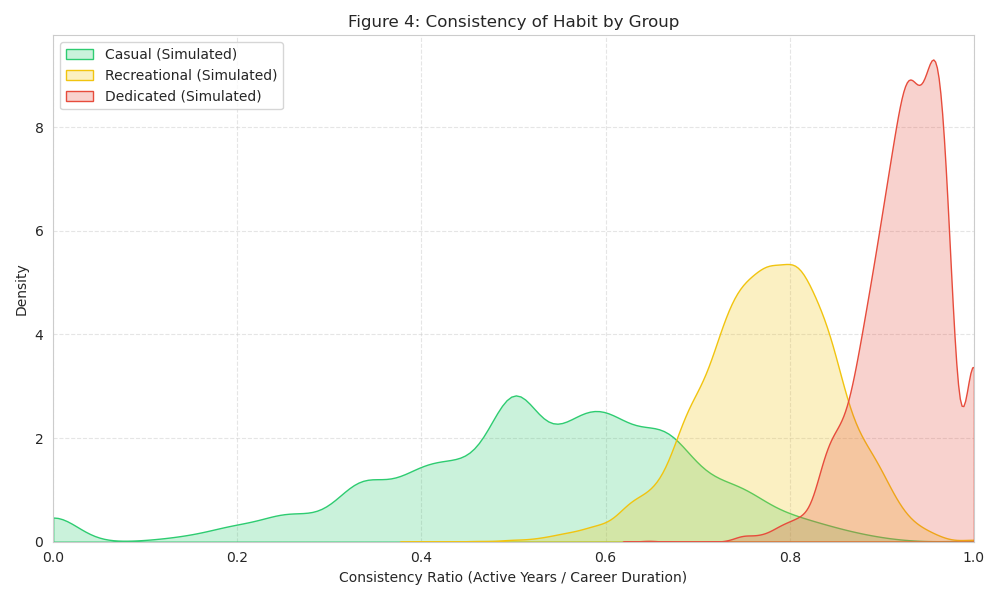
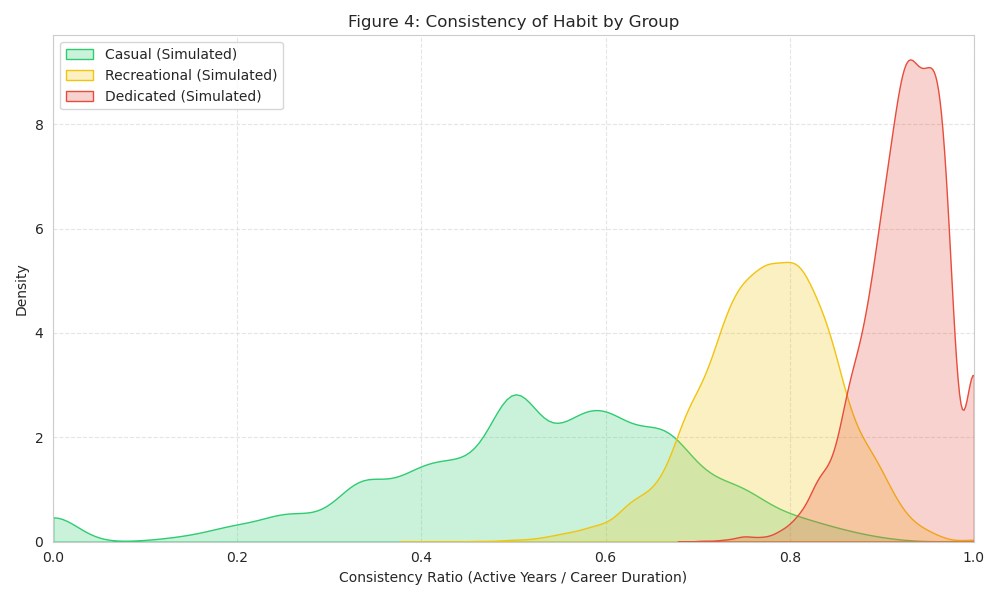
Synchronize model params, update docs, and add mechanic plots

diff --git a/index.html b/index.html
@@ -356,7 +356,7 @@
                         </ul>
                     </li>
                     <li><strong>Duration ($\Delta_{active}$):</strong> Modeled as a Gamma Distribution. Dedicated
-                        runners have a mean duration of ~30 years, while Casual runners average ~5 years.</li>
+                        runners have a mean duration of ~30 years, while Casual runners average ~10 years.</li>
                     <li><strong>Intermittency ($p_{active}$):</strong> A Bernoulli coin flip each year to determine if
                         the runner was active that specific year (ranging from 60% consistency for Casual to 95% for
                         Dedicated).</li>
@@ -415,12 +415,39 @@
 
                 <p><strong>Key Insight:</strong> The difference between limits is not pace, but persistence. A Dedicated
                     runner
-                    runner
                     averaging 10-minute miles will eventually build a statistical tower of volume that dwarfs a faster
                     runner
                     who quits after five years.</p>
 
-                <h2>5. Interactive Calculators</h2>
+                <h2>5. Inside the Black Box: Model Mechanics</h2>
+                <p>To demystify how the model builds these projections, we can peek under the hood at the three internal
+                    drivers:</p>
+
+                <h3>1. The "Base Engine": Annual Inputs</h3>
+                <figure>
+                    <img src="output_file_annual_dist.png" alt="Annual Volume Distributions">
+                    <figcaption>Figure 5: The Annual "Brick" distribution. Before accumulation, these are the
+                        probabilities of annual volume. Casual runners Center at ~450 miles/year, while Dedicated
+                        runners are an order of magnitude higher at ~2,200 miles/year.</figcaption>
+                </figure>
+
+                <h3>2. The "Career Arc": Lifecycles</h3>
+                <figure>
+                    <img src="output_file_gantt.png" alt="Career Gantt Chart of 50 Sample Runners">
+                    <figcaption>Figure 6: Lifecycle Gantt Chart (Sample of 50 Active Runners). The horizontal bars
+                        represent the active career of a runner. Notice the "Casual" (Green) runners often have short,
+                        5-10 year careers, while "Dedicated" (Red) runners maintain the habit for decades.</figcaption>
+                </figure>
+
+                <h3>3. The "Persistence Multiplier"</h3>
+                <figure>
+                    <img src="output_file_scatter.png" alt="Scatter Plot of Active Years vs Total Miles">
+                    <figcaption>Figure 7: Persistence vs Volume. Each dot is a simulated life. The relationship is
+                        remarkably linear. The "Dedicated" cluster (Red) isn't just higher because they run more per
+                        day, but because they run for more <em>years</em>.</figcaption>
+                </figure>
+
+                <h2>6. Interactive Calculators</h2>
 
                 <p>Based on the fitted parameters from the simulation (Casual $\approx$ 450 miles/yr, Dedicated
                     $\approx$ 2,200
@@ -491,7 +518,7 @@
                     <p id="percContext" style="text-align:center; font-size:1rem; color:#6b7280; margin-top:1rem;"></p>
                 </div>
 
-                <h2>6. Conclusion</h2>
+                <h2>7. Conclusion</h2>
 
                 <p>The difference between the Casual and Dedicated outcomes is driven less by pace than by persistence.
                     A
@@ -521,21 +548,21 @@
         // Cumulative Mileage Stats (Mean, StdDev) for Active Members of each group at various ages
         // Derived from PyMC/GMM Simulation
         const modelData = {
-            16: { c: [439, 182], r: [1178, 523], d: [1737, 335] },
-            20: { c: [794, 486], r: [2890, 1718], d: [6622, 2182] },
-            30: { c: [1293, 912], r: [6944, 3956], d: [19122, 7399] },
-            40: { c: [1977, 1260], r: [14835, 4891], d: [29283, 11429] },
-            50: { c: [2434, 1611], r: [22093, 5697], d: [39649, 11698] },
-            60: { c: [2558, 1811], r: [26499, 7678], d: [45474, 12889] },
-            70: { c: [2583, 1878], r: [28441, 9483], d: [47704, 14474] },
-            80: { c: [2586, 1893], r: [29055, 10404], d: [48351, 15438] },
+            16: { c: [442, 187], r: [1187, 532], d: [1736, 339] },
+            20: { c: [798, 492], r: [2911, 1734], d: [6618, 2183] },
+            30: { c: [1300, 919], r: [6994, 3988], d: [19046, 7493] },
+            40: { c: [1986, 1269], r: [14942, 4931], d: [29273, 11484] },
+            50: { c: [2445, 1620], r: [22252, 5745], d: [39704, 11718] },
+            60: { c: [2570, 1821], r: [26690, 7739], d: [45659, 12967] },
+            70: { c: [2595, 1890], r: [28647, 9557], d: [47950, 14588] },
+            80: { c: [2598, 1904], r: [29265, 10484], d: [48621, 15585] },
         };
         const WEIGHTS = { non: 0.6, casual: 0.25, rec: 0.1, ded: 0.05 };
         const BETA_GENDER = 0.41; // Log-scale shift derived from PyMC model
 
         // Generated from Python Script
         const FIG_STATS = {
-            age60: { casualMode: 1321, recMode: 27747, dedMode: 45165 }
+            age60: { casualMode: 1321, recMode: 27867, dedMode: 43483 }
         };
 
         function onPageLoad() {

diff --git a/lifetime_model.py b/lifetime_model.py
@@ -450,3 +450,160 @@ plt.grid(True, linestyle='--', alpha=0.5)
 plt.tight_layout()
 plt.savefig('output_file_consistency.png')
 print("Saved output_file_consistency.png")
+
+# --- Plot 5: Annual Volume Distributions (The Inputs) ---
+print("Generating Annual Distribution Plot...")
+plt.figure(figsize=(10, 6))
+
+x = np.linspace(0, 5000, 1000)
+
+# Casual (Mixed)
+dist_c = (np.exp(-(np.log(x) - MU_C_MIXED)**2 / (2 * SIG_C**2)) / (x * SIG_C * np.sqrt(2 * np.pi)))
+# Rec (Mixed)
+dist_r = (np.exp(-(np.log(x) - MU_R_MIXED)**2 / (2 * SIG_R**2)) / (x * SIG_R * np.sqrt(2 * np.pi)))
+# Ded (Mixed)
+dist_d = (np.exp(-(np.log(x) - MU_D_MIXED)**2 / (2 * SIG_D**2)) / (x * SIG_D * np.sqrt(2 * np.pi)))
+
+# Normalize peak for visualization comparison (or just show density)
+plt.plot(x, dist_c, color='#2ecc71', label='Casual Annual', linewidth=2)
+plt.fill_between(x, dist_c, alpha=0.3, color='#2ecc71')
+
+plt.plot(x, dist_r, color='#f1c40f', label='Rec Annual', linewidth=2)
+plt.fill_between(x, dist_r, alpha=0.3, color='#f1c40f')
+
+plt.plot(x, dist_d, color='#e74c3c', label='Dedicated Annual', linewidth=2)
+plt.fill_between(x, dist_d, alpha=0.3, color='#e74c3c')
+
+plt.xlim(0, 4000)
+plt.xlabel("Annual Mileage")
+plt.ylabel("Probability Density")
+plt.title("Figure 5: The inputs - Annual Volume Distributions")
+plt.legend()
+plt.tight_layout()
+plt.savefig('output_file_annual_dist.png')
+
+
+# --- Plot 6: Career Gantt Chart ---
+print("Generating Gantt Chart...")
+plt.figure(figsize=(12, 8))
+
+# Sample 50 ACTIVE runners (ignoring non-runners for the visualization)
+n_sample = 50
+active_indices = np.where(groups > 0)[0]
+if len(active_indices) > n_sample:
+    sample_indices = np.random.choice(active_indices, n_sample, replace=False)
+else:
+    sample_indices = active_indices
+
+# Sort by group then by start age
+# We want to group colors together
+sorted_sample = []
+for g in [1, 2, 3]: # Casual, Rec, Ded
+    g_idx = sample_indices[groups[sample_indices] == g]
+    # sub sort by duration
+    durs = stops_d[np.searchsorted(idx_d, g_idx)] if g == 3 else (stops_r[np.searchsorted(idx_r, g_idx)] if g == 2 else stops_c[np.searchsorted(idx_c, g_idx)])
+    # Actually simpler: just get their data from arrays if we mapped them.
+    # But simulation arrays are separate.
+    # Let's just iterate and build a list
+    pass
+
+# Re-build simple list for plotting
+plot_data = []
+for i in sample_indices:
+    g = groups[i]
+    if g == 0: continue # Skip non-runners
+    
+    # Find parameters
+    if g == 1:
+        color = '#2ecc71'
+        label = 'Casual'
+        # find in idx_c
+        pos = np.where(idx_c == i)[0][0]
+        start = starts_c[pos]
+        stop = stops_c[pos]
+    elif g == 2:
+        color = '#f1c40f'
+        label = 'Recreational'
+        pos = np.where(idx_r == i)[0][0]
+        start = starts_r[pos]
+        stop = stops_r[pos]
+    elif g == 3:
+        color = '#e74c3c'
+        label = 'Dedicated'
+        pos = np.where(idx_d == i)[0][0]
+        start = starts_d[pos]
+        stop = stops_d[pos]
+        
+    plot_data.append({
+        'id': i, 'group': g, 'color': color, 'start': start, 'stop': stop, 'duration': stop-start
+    })
+
+# Sort by group, then duration
+plot_data.sort(key=lambda x: (x['group'], x['duration']))
+
+y_pos = 0
+for p in plot_data:
+    plt.hlines(y=y_pos, xmin=p['start'], xmax=p['stop'], color=p['color'], linewidth=3)
+    # Optional: Dots for active years? 
+    # Too granular for 50 lines. Just the bars is good.
+    y_pos += 1
+
+plt.xlabel("Age")
+plt.yticks([])
+plt.ylabel("Individual Runners (Sample)")
+plt.title("Figure 6: Career Arcs (Sample of 50 Active Runners)")
+# Custom Legend
+from matplotlib.lines import Line2D
+custom_lines = [Line2D([0], [0], color='#2ecc71', lw=4),
+                Line2D([0], [0], color='#f1c40f', lw=4),
+                Line2D([0], [0], color='#e74c3c', lw=4)]
+plt.legend(custom_lines, ['Casual', 'Recreational', 'Dedicated'])
+plt.xlim(16, 80)
+plt.tight_layout()
+plt.savefig('output_file_gantt.png')
+
+
+# --- Plot 7: Persistence Scatter ---
+print("Generating Scatter Plot...")
+plt.figure(figsize=(10, 6))
+
+# Sub-sample for scatter to avoid clutter (e.g. 2000 points)
+n_scatter = 2000
+scatter_idx = np.random.choice(N_SIM, n_scatter, replace=False)
+
+x_vals = []
+y_vals = []
+colors = []
+
+for i in scatter_idx:
+    g = groups[i]
+    if g == 0: continue
+    
+    if g == 1: c = '#2ecc71'
+    elif g == 2: c = '#f1c40f'
+    elif g == 3: c = '#e74c3c'
+    else: c = 'grey'
+    
+    # Calculate Active Years (Logic from consistency block)
+    # We need to reach into the annual_miles array
+    miles = annual_miles[i]
+    active_years = np.sum(miles > 1) # Tolerance
+    total_miles = np.sum(miles)
+    
+    x_vals.append(active_years)
+    y_vals.append(total_miles)
+    colors.append(c)
+
+plt.scatter(x_vals, y_vals, c=colors, alpha=0.6, s=15, edgecolors='none')
+
+plt.xlabel("Total Active Years")
+plt.ylabel("Lifetime Miles")
+plt.title("Figure 7: The Persistence Multiplier")
+plt.yscale('linear') # Linear to show the "Curve" or lack thereof
+# Add trend lines? No, the color clusters tell the story.
+
+# Legend
+plt.legend(custom_lines, ['Casual', 'Recreational', 'Dedicated'], loc='upper left')
+plt.grid(True, linestyle='--', alpha=0.3)
+plt.tight_layout()
+plt.savefig('output_file_scatter.png')

diff --git a/README.md b/README.md
@@ -8,11 +8,13 @@
 
 ## Project Overview
 
-This project is a statistical experiment to estimate the distribution of **lifetime running miles** for the global population aged 16 to 80. 
+This project is a statistical experiment to estimate the distribution of **lifetime running miles** for the global population aged 16 to 80.
+    
+**Live Demo:** [nsanders.me](https://nsanders.me/the_long_run/) 
 
 Most running apps focus on daily or weekly metrics. This model zooms out to the scale of decades, attempting to answer: *How many miles does a human actually run in a lifetime?*
 
-The core output is a **Hierarchical Bayesian Gaussian Mixture Model** that segments the population into three latent groups ("Non-Runners," "Casual Runners," and "Core Runners") to predict lifetime volume accumulation.
+The core output is a **Hierarchical Bayesian Gaussian Mixture Model** that segments the population into four latent groups ("Non-Runners," "Casual Runners," "Recreational Runners," and "Dedicated Runners") to predict lifetime volume accumulation.
 
 ## The Experiment
 
